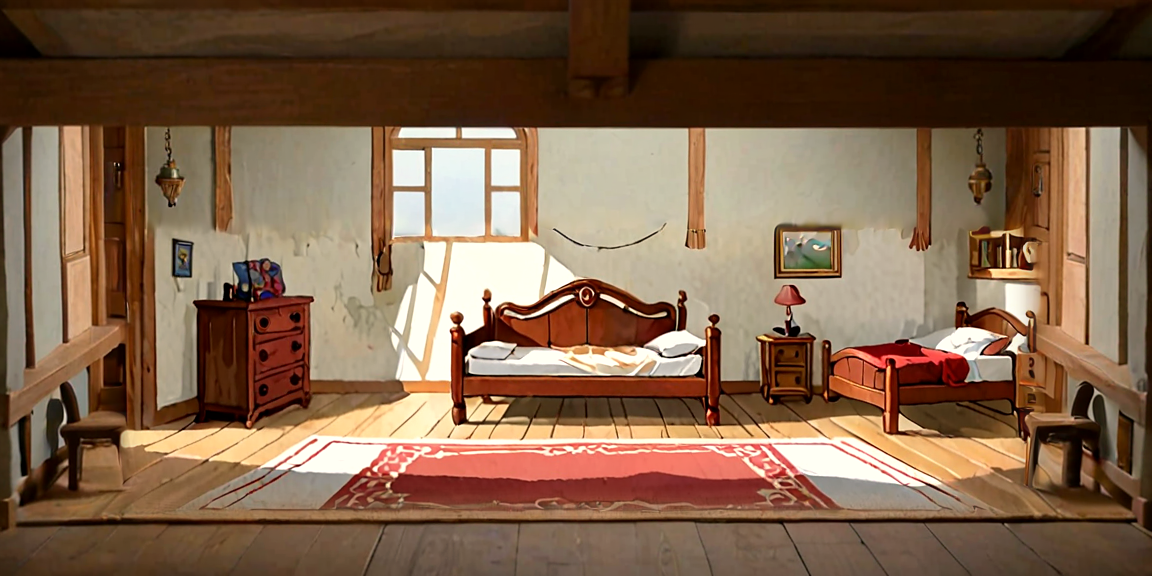
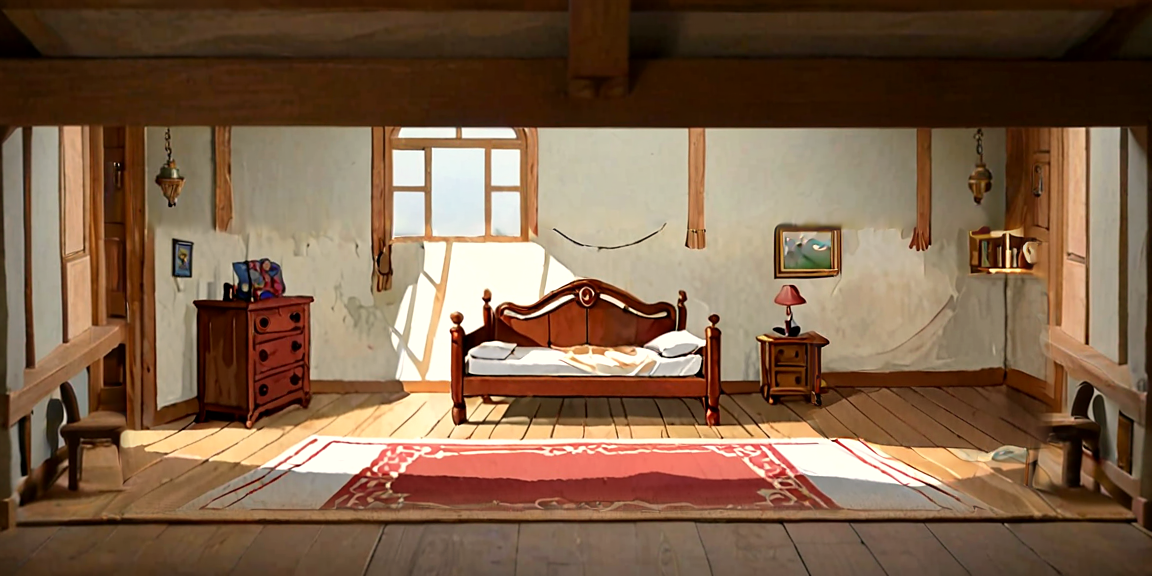
Paint a cradle for the living quarters; their first look without the second small bed
Claude-Session: https://claude.ai/code/session_01LxpfNJDLrR1b4p9pJ7xapP

Changed region(s): [[0.6875, 0.4375, 0.9375, 0.8125]]

diff --git a/hearth/tools/art/sdpaint.py b/hearth/tools/art/sdpaint.py
@@ -342,6 +342,7 @@ DECOR.update({
 OBSTACLES = {
     "Rubble": "a wide low heap of fallen grey-brown rocks, boulders and broken wooden planks, a collapsed rubble pile, "
               "side view",
+    "Cradle": "a small wooden baby cradle on curved rockers with a white blanket and a little pillow, side view",
     "Arch": "a thick medieval wall pillar of warm sandstone blocks with an open round-arched doorway through it, front "
             "view, symmetric, the doorway a dark passage, a stone threshold",
     "Scaffold": "wooden construction scaffolding, front view, a frame of wooden poles and planks tied with ropes, "
@@ -371,7 +372,7 @@ def _piece_list():
         out["Decor/" + n] = ("a room decoration: " + what + ", seen from the front",
                              Image.open(p).size if os.path.exists(p) else (320, 320))
     for n, what in OBSTACLES.items():
-        out["Rooms/" + n] = (what, (192, 512) if n == "Arch" else (768, 384))
+        out["Rooms/" + n] = (what, {"Arch": (192, 512), "Cradle": (384, 384)}.get(n, (768, 384)))
     for n, what in SCENE.items():
         out["Scene/" + n] = (what + ", three-quarter view from slightly above", (512, 512))
     return out
